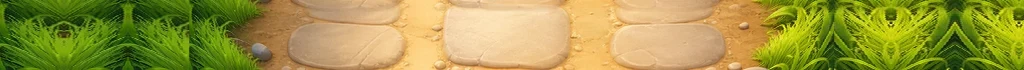
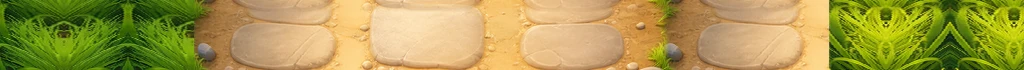
feat(poem): 藍線梯形透視＋上半部上移＋卷軸題目UI（派派定案）
1) 滅點上移涼亭基座上方：路到台階口保有12%寬(梯形非三角形)、底部145%，
   邊線貼合派派藍線；floor_tile 重組路佔62%/4排小石板
2) 上半部整體上移 7%H（遠景圖+地平線同步）
3) 題目改橫式卷軸UI釘在台階口：壓住上下接縫、不擋涼亭、門從卷軸後冒出；
   計分藥丸移左右上角
Codex R10 LGTM。game_poem.js v23 / poem.css v18

diff --git a/arcade/game_poem.js b/arcade/game_poem.js
@@ -91,13 +91,22 @@
         geom.laneX = [W * 0.26, W * 0.74];
         geom.minX = W * 0.13; geom.maxX = W * 0.87;
         geom.gateW = Math.min(W * 0.46, 205);
-        // 路的消失點＝涼亭底（派派 6/12 紅線）：背景方圖 cover + 底部對齊，涼亭底在圖高約 41%
+        // 路的消失點＝涼亭底：背景方圖 cover+底部對齊，涼亭底在圖高約 41%
+        // UP_SHIFT：上半部整體往上移（派派 6/12），遠景圖與地平線同步上移＝路面變長
         const dispH = Math.max(W, H);
-        geom.horizonY = Math.max(H * 0.14, Math.min(H * 0.55, H - dispH * 0.59));
+        const UP_SHIFT = H * 0.07;
+        geom.upShift = UP_SHIFT;
+        geom.horizonY = Math.max(H * 0.10, Math.min(H * 0.55, H - dispH * 0.59 - UP_SHIFT));
+        // 滅點在涼亭基座上方（派派藍線）：路到台階口仍有寬度（梯形），不收成一點
+        geom.vanishY = geom.horizonY - dispH * 0.054;
         // 路面捲動平面：全寬（含柵欄/草邊一起流）＋貼圖高度按平面寬等比
-        const fl = $("poem-floor"); if (fl) fl.style.top = geom.horizonY + "px";
+        const fl = $("poem-floor");
+        if (fl) {
+            fl.style.top = geom.horizonY + "px";
+            fl.style.perspectiveOrigin = "50% " + Math.round(geom.vanishY - geom.horizonY) + "px";
+        }
         const pl = document.querySelector(".poem-floor-plane");
-        const planeW = Math.round(dispH * 1.57);   // 平面加寬對齊原畫柵欄透視線（派派紅線）；石板大小靠貼圖內路佔比 52% 控制
+        const planeW = Math.round(dispH * 1.49);   // 路底寬=62%*planeW≈145%螢幕寬（派派藍線）；石板 4 排各約36%螢幕寬
         if (pl) pl.style.width = planeW + "px";
         geom.tileH = Math.max(70, Math.round(planeW * 70 / 1024 * 1.35));
         const tex = $("poem-floor-tex");
@@ -109,14 +118,14 @@
             far.style.height = Math.round(geom.horizonY + H * 0.02) + "px";   // 只蓋到地平線下一點點（多了會露原畫中景）
             far.querySelectorAll(".poem-far-l").forEach((l) => {
                 l.style.backgroundSize = dispH + "px " + dispH + "px";
-                l.style.backgroundPosition = Math.round((W - dispH) / 2) + "px " + Math.round(H - dispH) + "px";
+                l.style.backgroundPosition = Math.round((W - dispH) / 2) + "px " + Math.round(H - dispH - geom.upShift) + "px";
                 // inline style 的相對路徑是對 HTML 解析（不是對 CSS 檔），必須帶 arcade/ 前綴（Codex P2）
                 l.style.backgroundImage = "url('arcade/img/poem/bg.webp?v=1')";
             });
         }
         // 兩側竹牆：rotateY 立面，近端在畫面外側、遠端收向消失點
         const walls = $("poem-walls");
-        if (walls) { walls.style.perspective = "540px"; walls.style.perspectiveOrigin = "50% " + Math.round(geom.horizonY) + "px"; }
+        if (walls) { walls.style.perspective = "540px"; walls.style.perspectiveOrigin = "50% " + Math.round(geom.vanishY) + "px"; }
         const wallH = H * 1.5, wallTop = geom.horizonY - wallH * 0.62, depthW = dispH * 2;
         const wl = $("poem-wall-l"), wr = $("poem-wall-r");
         if (wl) {
@@ -136,6 +145,9 @@
         [$("poem-wall-tex-l"), $("poem-wall-tex-r")].forEach((t) => {
             if (t) { t.style.left = -geom.wallTileW + "px"; t.style.right = -geom.wallTileW + "px"; }
         });
+        // 題目卷軸釘在地平線（上下銜接處）
+        const scr = $("poem-scroll");
+        if (scr) scr.style.top = Math.round(geom.horizonY) + "px";
         // 地平線以下縫隙補色層（取代原畫殘留）
         let und = document.querySelector(".poem-under");
         if (!und) {
@@ -421,7 +433,7 @@
             "arcade/img/poem/bg.webp?v=1",
             "arcade/img/poem/runner.webp?v=1",
             "arcade/img/poem/gate.webp?v=1",
-            "arcade/img/poem/floor_tile.webp?v=3",
+            "arcade/img/poem/floor_tile.webp?v=4",
             "arcade/img/poem/wall_tile.webp?v=2",
             "arcade/img/poem/prop_grass.webp?v=2",
             "arcade/img/poem/prop_stone.webp?v=2",

diff --git a/arcade/poem.css b/arcade/poem.css
@@ -65,7 +65,7 @@ html, body { height: 100%; overflow: hidden; }
 }
 .poem-floor-tex {
   position: absolute; left: 0; right: 0; top: -340px; height: calc(100% + 340px);
-  background: url("img/poem/floor_tile.webp?v=3") repeat;
+  background: url("img/poem/floor_tile.webp?v=4") repeat;
   background-size: 100% 110px; will-change: transform;
 }
 /* 霧帶已拆（派派 6/12：任何帶子/柔焦都造成分界感），留空殼相容 JS */
@@ -93,8 +93,8 @@ html, body { height: 100%; overflow: hidden; }
 
 /* 場景內頂部浮層：計分藥丸＋題目匾額（壓在場景上，不另佔版面） */
 .poem-top {
-  position: absolute; top: 8px; left: 6px; right: 6px; z-index: 35;
-  display: flex; align-items: flex-start; justify-content: center; gap: 6px;
+  position: absolute; top: 8px; left: 8px; right: 8px; z-index: 35;
+  display: flex; align-items: flex-start; justify-content: space-between;
   pointer-events: none;
 }
 .poem-pill {
@@ -103,18 +103,26 @@ html, body { height: 100%; overflow: hidden; }
   background: rgba(90, 42, 16, 0.82); border: 2px solid #ffd98a;
   padding: 4px 9px; border-radius: 999px;
 }
-.poem-plaque {
-  flex: 0 1 auto; min-width: 0; max-width: 62%;
-  background: linear-gradient(180deg, rgba(192, 57, 43, 0.95), rgba(150, 40, 27, 0.95));
-  border: 3px solid #ffd98a; border-radius: 14px;
-  box-shadow: 0 5px 12px rgba(0, 0, 0, 0.32);
-  padding: 7px 12px 8px; text-align: center; color: #fff7e6;
+/* 題目卷軸：浮在上下銜接處（地平線），UI 縫合兩層；門從卷軸後冒出（top 由 JS 設） */
+.poem-scroll {
+  position: absolute; left: 50%; transform: translate(-50%, -10%);   /* 上緣貼台階口：蓋接縫、不擋涼亭 */
+  z-index: 30; pointer-events: none; white-space: nowrap; text-align: center;
+  background: linear-gradient(180deg, #fbf3dd 0%, #f3e6c4 70%, #e9d8ae 100%);
+  border: 2px solid #b98a4e; border-radius: 10px;
+  padding: 8px 24px 9px; color: #4a2c10;
+  box-shadow: 0 7px 16px rgba(40, 20, 5, 0.38), inset 0 1px 0 #fffaf0;
 }
-.poem-plaque .poem-q {
-  font-size: 20px; font-weight: 900; letter-spacing: 1px; line-height: 1.35;
-  min-height: 27px; white-space: nowrap;
+.poem-scroll::before, .poem-scroll::after {
+  content: ""; position: absolute; top: -7%; bottom: -7%; width: 15px;
+  background: linear-gradient(90deg, #6e4019, #a86c33 45%, #6e4019);
+  border-radius: 8px; box-shadow: 0 2px 5px rgba(0, 0, 0, 0.35);
 }
-.poem-plaque .poem-hint { font-size: 11px; opacity: 0.92; margin-top: 1px; }
+.poem-scroll::before { left: -11px; }
+.poem-scroll::after { right: -11px; }
+.poem-scroll .poem-q {
+  font-size: 21px; font-weight: 900; letter-spacing: 2px; line-height: 1.35; min-height: 28px;
+}
+.poem-scroll .poem-hint { font-size: 10px; color: #8a6a40; margin-top: 1px; }
 
 /* 愛心：舞台底部中央小膠囊（照參考影片） */
 .poem-hearts {

diff --git a/arcade-poem.html b/arcade-poem.html
@@ -5,7 +5,7 @@
 <meta name="viewport" content="width=device-width, initial-scale=1.0, maximum-scale=1.0, user-scalable=no">
 <title>詩詞接龍：唐詩三百首</title>
 <link rel="stylesheet" href="arcade/base.css?v=2">
-<link rel="stylesheet" href="arcade/poem.css?v=14">
+<link rel="stylesheet" href="arcade/poem.css?v=18">
 <link rel="stylesheet" href="arcade/game-ui.css?v=2">
 </head>
 <body>
@@ -28,11 +28,11 @@
         </div>
         <div class="poem-top">
             <span class="poem-pill" id="poem-score">答對 0 題</span>
-            <div class="poem-plaque">
-                <div class="poem-q" id="poem-question"></div>
-                <div class="poem-hint">跑進「下一句」正確的那座門！</div>
-            </div>
             <span class="poem-pill" id="poem-best">最高 0 題</span>
+        </div>
+        <div class="poem-scroll" id="poem-scroll">
+            <div class="poem-q" id="poem-question"></div>
+            <div class="poem-hint">跑進「下一句」正確的那座門！</div>
         </div>
         <div class="poem-hearts" id="poem-hearts">❤❤❤</div>
         <div class="poem-countdown" id="poem-countdown" style="display:none"></div>
@@ -44,7 +44,7 @@
 
 <script src="arcade/shim.js?v=1"></script>
 <script src="arcade/game-ui.js?v=3"></script>
-<script src="arcade/game_poem.js?v=20"></script>
+<script src="arcade/game_poem.js?v=23"></script>
 <script>
 // 封面＋玩法說明卡（鐵律：淨新玩法必備說明卡），按「開始遊戲」才開局
 (function boot() {
